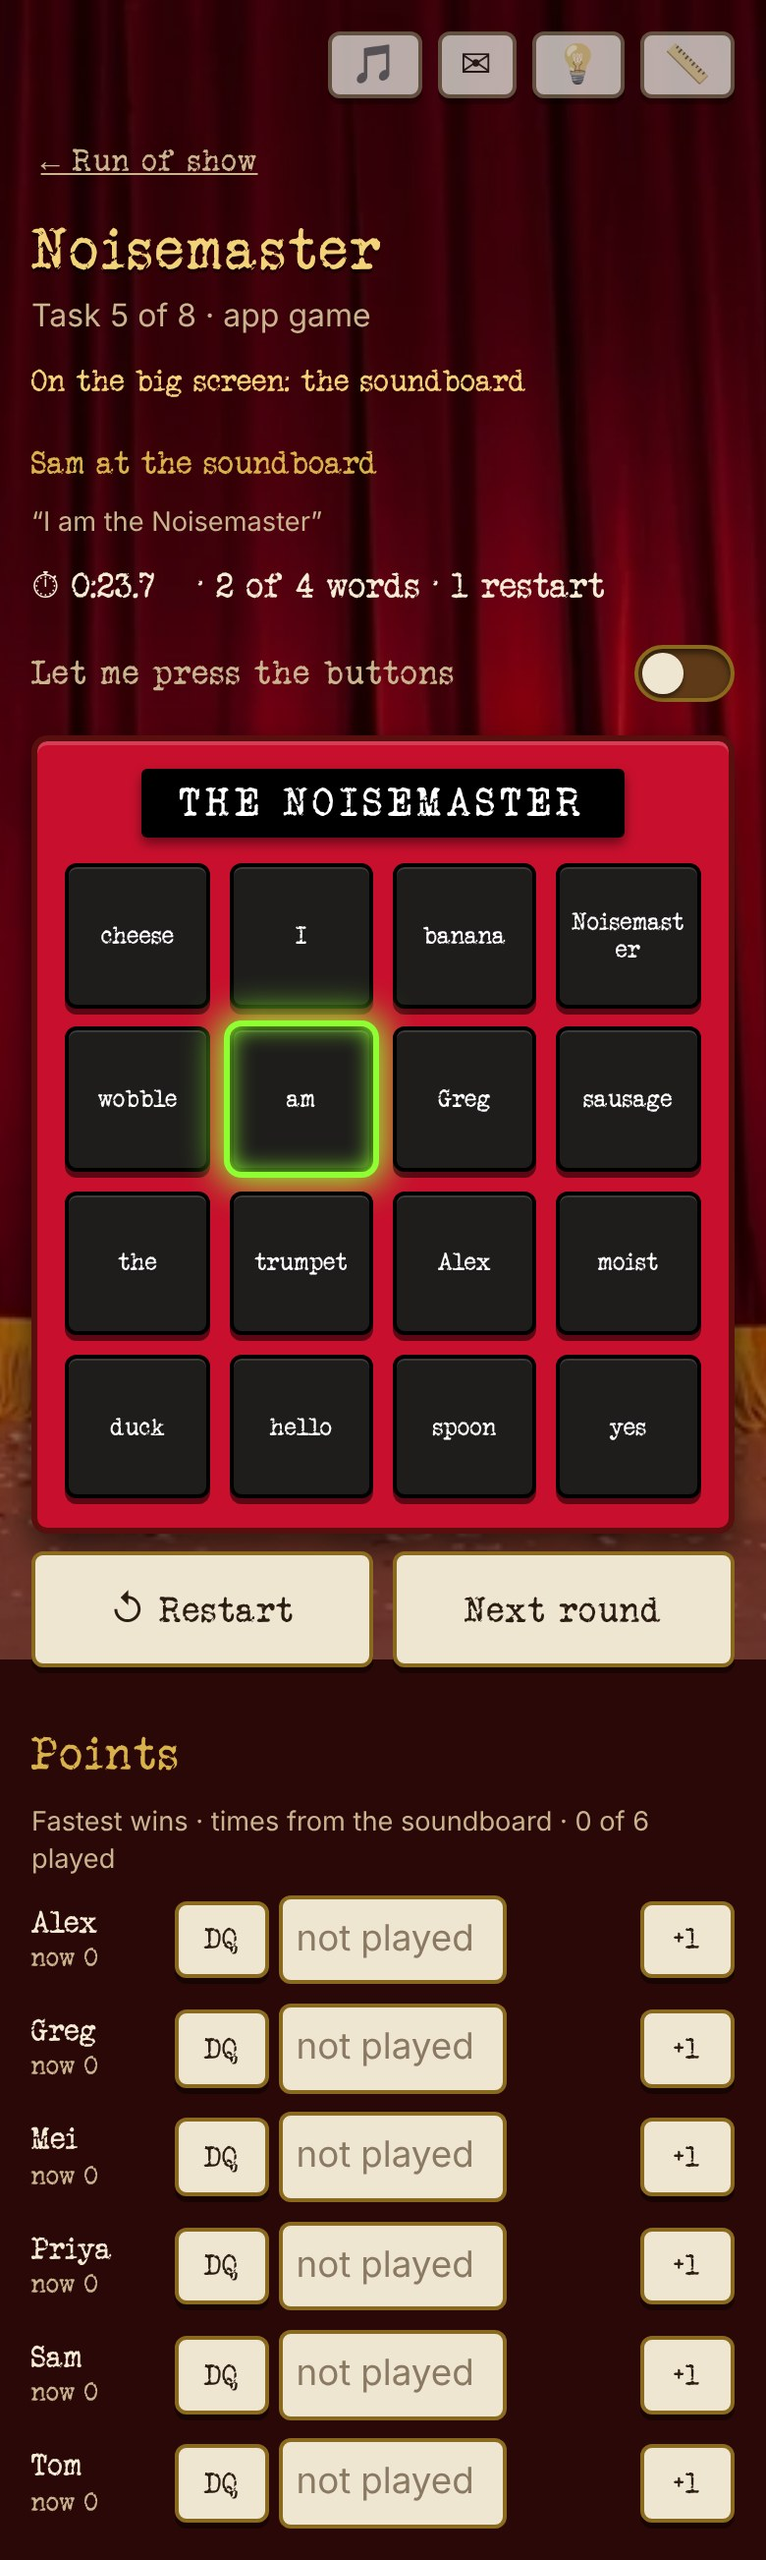
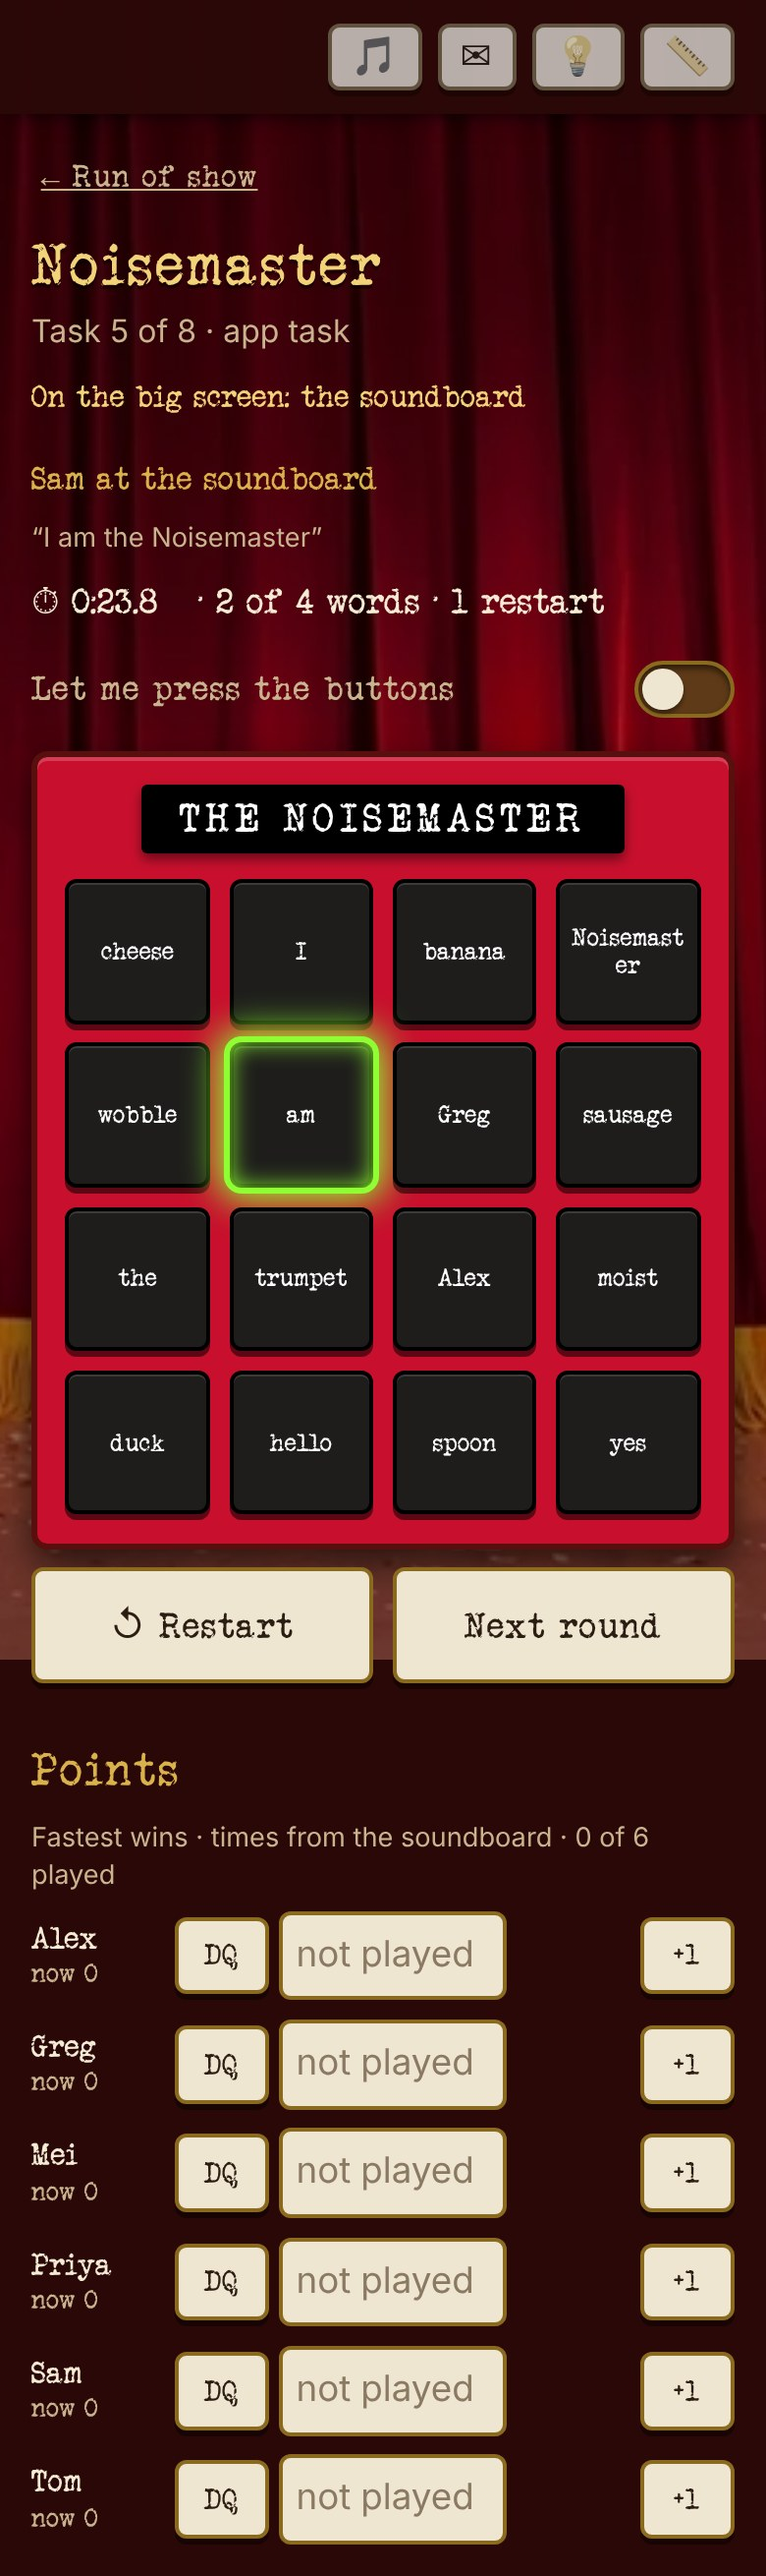
Shoot the Noisemaster host setup, re-shoot its round as an app task
Claude-Session: https://claude.ai/code/session_01Poh8ytZmD6MRjW3F8tFofW

diff --git a/docs/guest-shots/shots.tsx b/docs/guest-shots/shots.tsx
@@ -116,6 +116,8 @@ function build() {
     case "tv-noisemaster-done":
       picked(); task("noisemaster"); g.noisemaster = { round: { ...midGo(), progress: 4, mistakes: 2, doneAt: Date.now() - 400, firstAt: Date.now() - 41700, last: { key: "k3", i: 3, ok: true } } }; set("display", { step: "soundboard" }); set("begun", true);
       break;
+    // Noisemaster before a go: the host's setup, Sam picked and the phrase and decoys typed in (no sound files).
+    case "host-noisemaster-setup": picked(); task("noisemaster"); set("begun", true); break;
     case "tv-noisemaster": case "host-noisemaster": case "host-run":
       picked(); task("noisemaster"); g.noisemaster = { round: midGo() }; set("display", { step: "soundboard" }); set("begun", true);
       break;
@@ -204,7 +206,7 @@ function build() {
 const { session, secret } = build();
 if (shot.startsWith("host-")) { (session as Record<string, unknown>).controllerUid = "host"; (session as Record<string, unknown>).hostUid = "owner"; }
 // On the noisemaster host page everyone has their secret task, and has looked, so the ✉ has no dot.
-if (shot.startsWith("host-parts") || shot.startsWith("host-onepart") || shot.startsWith("host-plan") || shot === "host-crop" || shot === "host-app-game" || shot === "host-adhoc" || shot === "host-reset" || shot.startsWith("host-flipchart") || shot === "host-noisemaster" || shot === "host-prize" || shot === "host-points" || shot === "host-run" || shot === "host-haul") { Object.assign(secret.assigned as object, SECRETS); secret.seen = Object.fromEntries(Object.keys(people).map((id) => [id, true])); }
+if (shot.startsWith("host-parts") || shot.startsWith("host-onepart") || shot.startsWith("host-plan") || shot === "host-crop" || shot === "host-app-game" || shot === "host-adhoc" || shot === "host-reset" || shot.startsWith("host-flipchart") || shot === "host-noisemaster" || shot === "host-noisemaster-setup" || shot === "host-prize" || shot === "host-points" || shot === "host-run" || shot === "host-haul") { Object.assign(secret.assigned as object, SECRETS); secret.seen = Object.fromEntries(Object.keys(people).map((id) => [id, true])); }
 (window as unknown as { __uid: string }).__uid = who;
 const joined = shot !== "checkin-list" && shot !== "join-code";
 localStorage.clear();

diff --git a/docs/screens/README.md b/docs/screens/README.md
@@ -37,7 +37,8 @@ Guest phone (`/play`, 390px wide), redrawn on 2026-10-18 in the host remote's la
 | `guest-noisemaster-up.jpg` | "You're up!": the phrase and the board in the card |
 | `main-noisemaster.jpg` | Noisemaster on the big screen mid-go: the words said so far as gold tiles, the red board with the last button lit green, the player's name, the clock, "2 of 4 words" and "1 restart" (2026-10-18) |
 | `main-noisemaster-done.jpg` | Noisemaster on the big screen when the go is finished: all four words as gold tiles, the clock stopped at 0:41.3, "4 of 4 words", "2 restarts" and the ✓ Done stamp (2026-10-21) |
-| `noisemaster-host-round.jpg` | The host phone's Noisemaster page mid-go, whole page: "Sam at the soundboard", the clock, the board with its words, Restart and Next round, Points below (2026-10-18) |
+| `noisemaster-host-round.jpg` | The host phone's Noisemaster page mid-go, whole page: "Sam at the soundboard", the clock, the board with its words, Restart and Next round, Points below (2026-10-21) |
+| `noisemaster-host-setup.jpg` | The host phone's Noisemaster page before a go, whole page: Sam picked, "I am the Noisemaster" typed as the phrase, twelve decoys, "16 different words." and the gold Start Noisemaster (no sound files, so the main screen says the words) (2026-10-21) |
 | `run-of-show-host.jpg` | Host phone: the Run of show, "Show QR" by the code, "Show scores" under the big-screen line, the "Up next" card with the gold Start button and "app task" on the card, and all eight tasks (party ABCD, 2026-10-19) |
 | `points-host-given.jpg` | Host phone on the Prize task: Sam's prize on the big screen and the Points rows, four guests already scored (taken 2026-10-18 from the ABCD party) |
 | `scores-main-before.jpg` | Main screen: the scoreboard before the host updates it, six wax seals showing the totals so far (taken 2026-10-18 from the ABCD party, silhouette headshots) |
